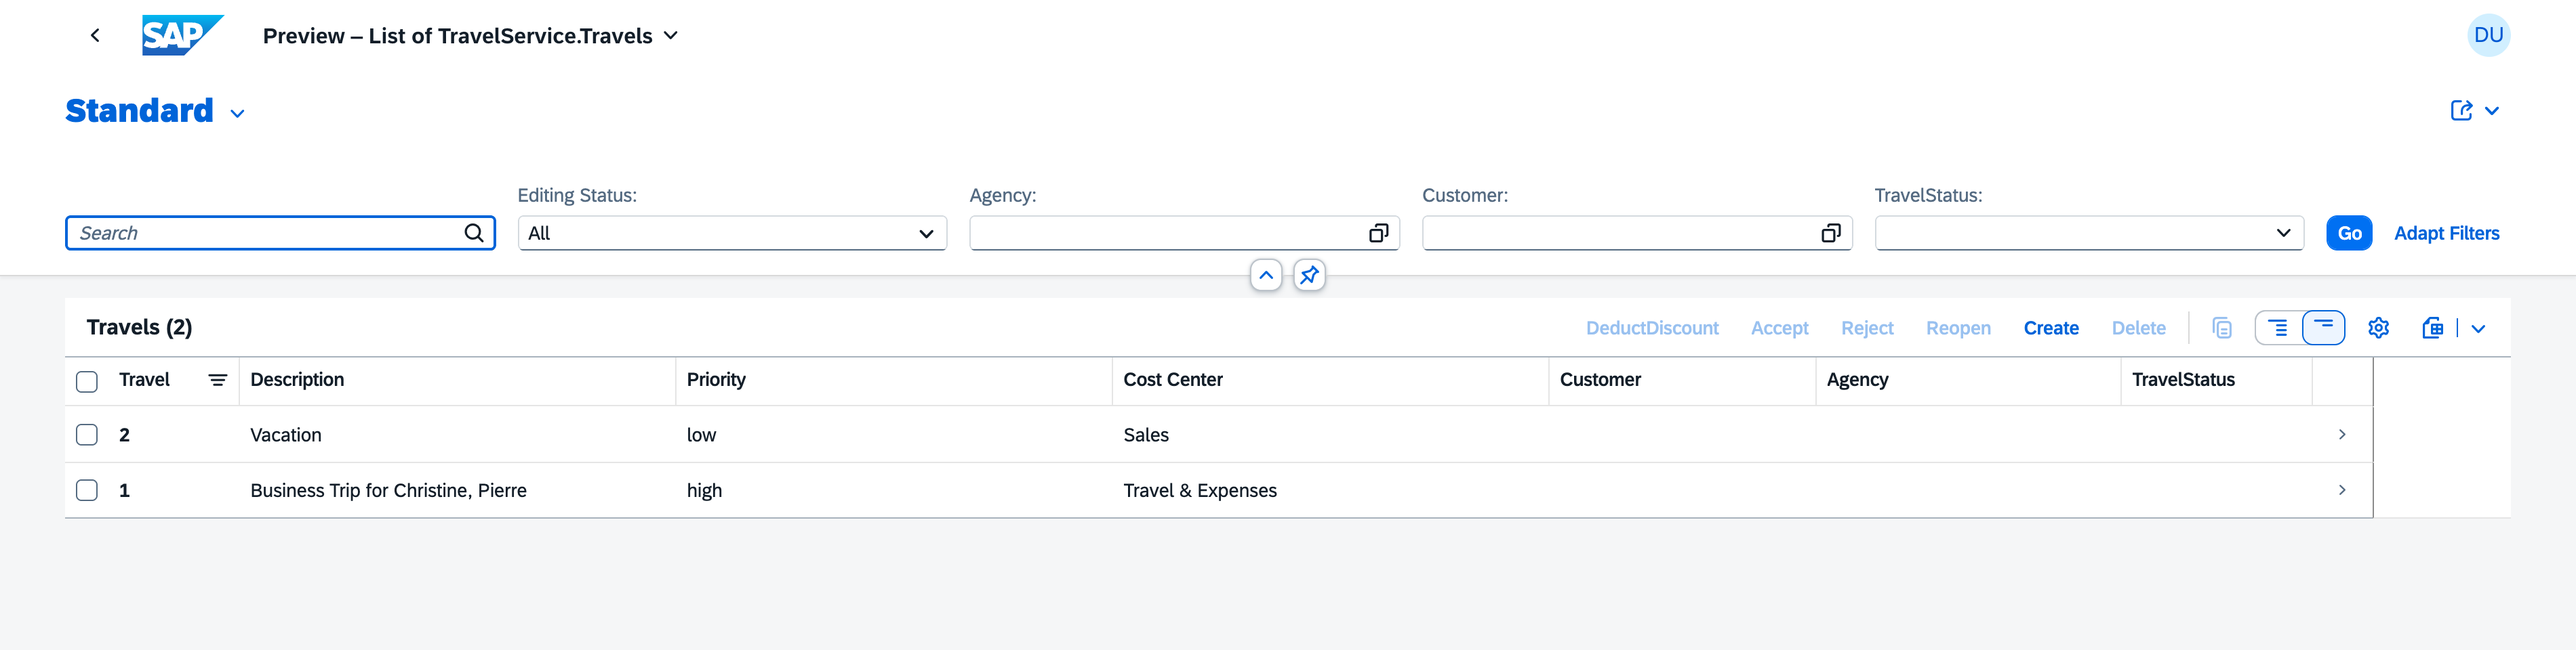
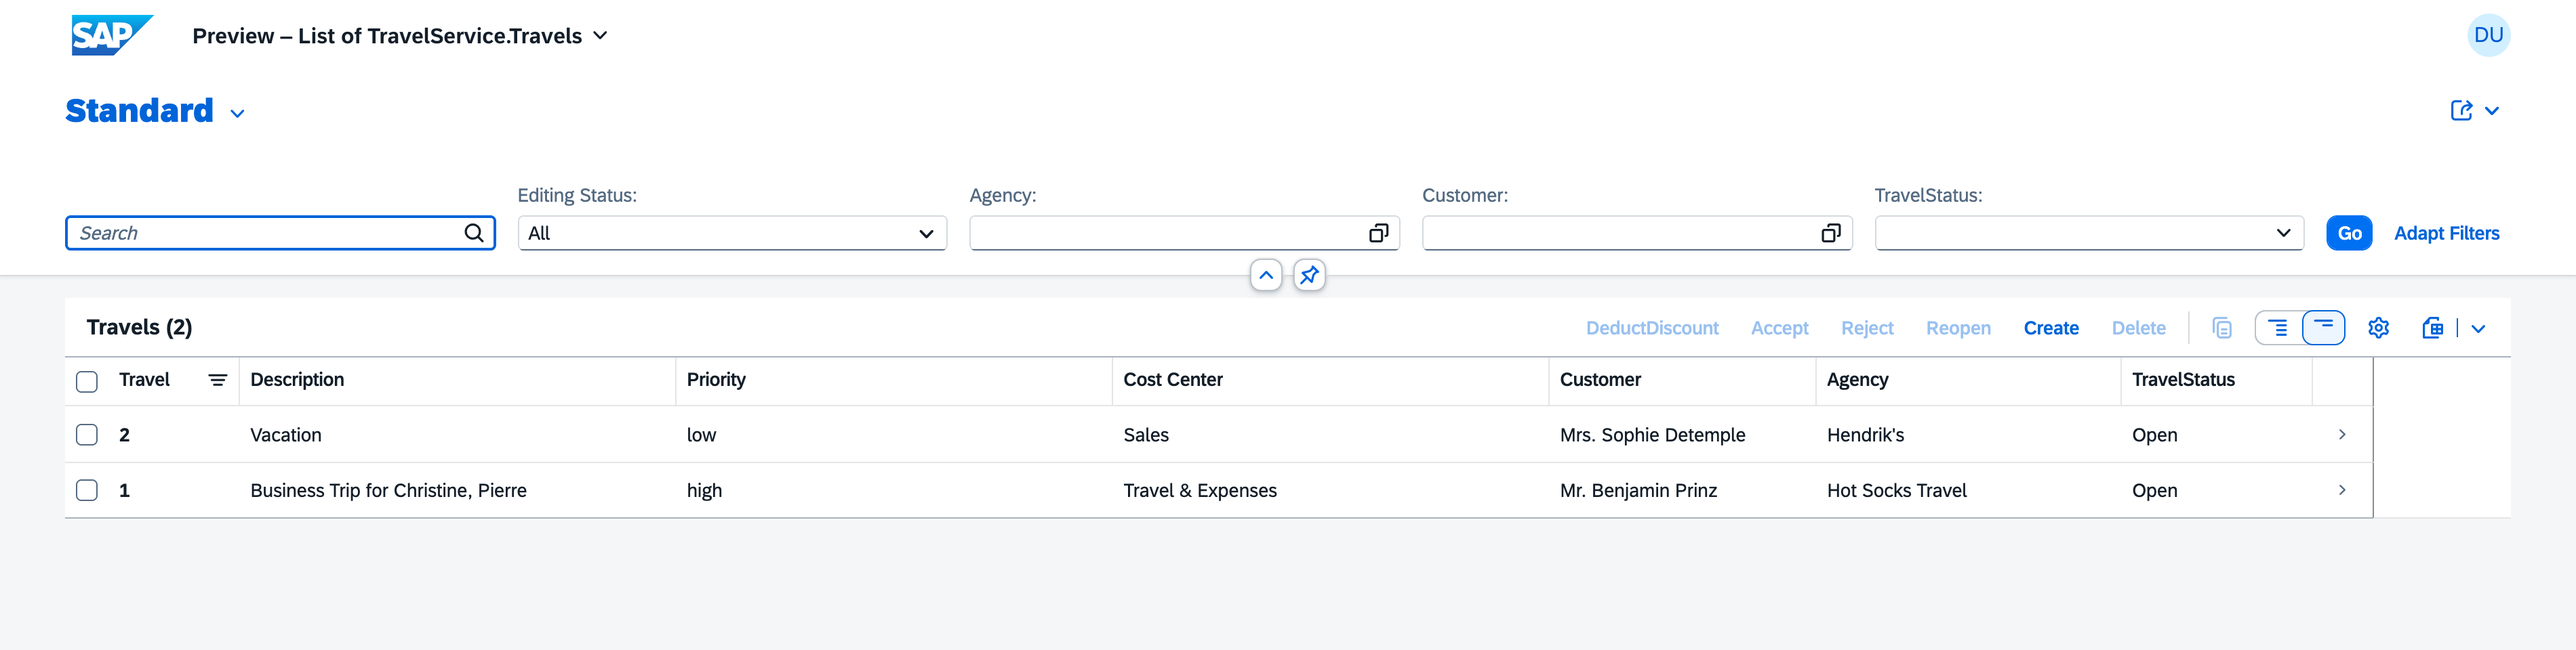
Fix XTravels extensibility walkthrough for CDS-DK 10.2

diff --git a/guides/extensibility/customization.md b/guides/extensibility/customization.md
@@ -214,14 +214,14 @@ Extension projects are standard CAP projects extending the SaaS application. Cre
    `cds add extension` scaffolds the extension project structure: it adds `extends` and `workspaces: [ ".base" ]` to your _package.json_ and prepares the `.base/` folder that will hold the pulled base model.
 
    ::: info `cds add extension` writes a bookshop placeholder
-   It also writes a small **bookshop** placeholder that you don't keep: it sets `extends` to `@capire/bookshop` and writes `.base/package.json` as `{ "name": "@capire/bookshop" }`. You don't hand-edit the latter: point `extends` at your app (next step), and later [when you run `cds pull`](#pull-base) it overwrites `.base/` with your real base model, so its name becomes `@capire/xtravels` on its own.
+   It sets `extends` in `xtravels-ext/package.json` to `@capire/bookshop` and writes `.base/package.json` as `{ "name": "@capire/bookshop" }`. Change `extends` in the extension project's root _package.json_ in the next step. Leave `.base/package.json` unchanged: [Pull the Base Model](#pull-base) replaces it with a package named `@capire/xtravels`.
    :::
 
-2. `cds add extension` sets `extends` to a placeholder, point it at your SaaS app and add the two focused settings below to your _package.json_:
+2. In `xtravels-ext/package.json`, change `extends` from `@capire/bookshop` to `@capire/xtravels`:
 
     ::: code-group
 
-    ```json{3,6,9} [package.json]
+    ```json{3} [xtravels-ext/package.json]
     {
       "name": "xtravels-ext",
       "extends": "@capire/xtravels",
@@ -237,11 +237,17 @@ Extension projects are standard CAP projects extending the SaaS application. Cre
 
     :::
 
-- `name` identifies the extension within a SaaS subscription; extension developers can choose the value freely.
+::: details Generated project settings
+
+`cds add extension` sets up `workspaces`, SQLite, and port `4006`. The example above shows the resulting settings. For a project created with an earlier toolkit, check that these settings match.
+
+- `name` identifies the extension within a SaaS subscription. Extension developers can choose the value freely.
 - `extends` is the name by which the extension model will refer to the base model. `cds add extension` writes a placeholder here, change it to your SaaS app (`@capire/xtravels`). It must be a valid npm package name as it will be used by `cds pull` as a package name for the base model. It doesn't have to be a unique name, nor does it have to exist in a package registry like npmjs, as it will only be used locally.
 - `workspaces` (added by `cds add extension`) is a list of folders including the one where the base model is stored. `cds pull` will keep this property in sync if needed.
-- `@cap-js/sqlite` provides the in-memory database for local `cds watch`. `cds add extension` scaffolds it under `devDependencies`, **move it to `optionalDependencies`** as shown above. It sits there **on purpose**: it's still installed by `npm install`, so local test-drives get a real database, but because it isn't a regular `dependency` or `devDependency`, `cds build` doesn't treat the project as a runnable app and therefore keeps your local `test/data` **out of the pushed extension** (see [Add Test Data](#add-test-data)). Leaving it as a `devDependency` would bundle that dev-only data into `cds push` and deploy it to the tenant.
-- `cds.server.port` fixes the local test-drive port to `4006`, so extension developers can just run `cds watch` without passing `--port`.
+- `@cap-js/sqlite` provides the in-memory database for local `cds watch`. `cds add extension` puts it in `optionalDependencies`, so `npm install` installs it while the extension build keeps local `test/data` out of the pushed archive (see [Add Test Data](#add-test-data)). If an older project lists it under `dependencies` or `devDependencies`, move it to `optionalDependencies`.
+- `cds.server.port` is set to `4006`, so you can run `cds watch` without passing `--port`.
+
+:::
 
 ::: details Uniqueness of base-model name…
 
@@ -251,41 +257,13 @@ You use the `extends` property as the name of the base model in your extension p
 
 #### Set Up the Extension Project Locally {#local-setup}
 
-The extension project can't compile yet: its `using … from '@capire/xtravels'` needs the actual base model behind it. You pull that model once from the running SaaS app. After it's pulled, the extension project runs **standalone**: you only return to the host and its MTX sidecar when you want to re-pull or push.
+Your extension needs the base model to resolve `using … from '@capire/xtravels'`. The steps below start the SaaS app and its sidecar, prepare the tenants, and then [pull the base model](#pull-base). After that, you can run the extension **standalone**. You only need the host and sidecar again to refresh the model or push an extension.
 
-So the local setup is up to three processes, in three terminals, started in this order.
-
-**1. Start the MTX sidecar first.** From the sidecar subfolder, with no flags:
-
-```sh
-cd mtx/sidecar
-cds watch
-```
-
-The sidecar serves the subscription, deployment, and extensibility endpoints on **:4005**. Leave it running.
-
-**2. Start the XTravels host.** In a second terminal, from the `xtravels/` root:
-
-```sh
-cds watch --with-mtx
-```
-
-The host serves the SaaS app on **:4114**. The sidecar must already be up, because subscribe, pull, and push are all handled by the sidecar on :4005, not by the host.
-
-##### Subscribe the Tenants {#prepare-an-extension-tenant}
-
-You work with two tenants: a **production tenant** `t1` (where end users such as `carol` work) and a dedicated **test tenant** `t1-ext`, where you validate an extension before activating it to production. In your local setup you simulate both subscriptions with the [mock user](../../node.js/authentication#mock-users) `yves`, against the sidecar:
-
-```sh
-cds subscribe t1 --to http://localhost:4005 -u yves:
-cds subscribe t1-ext --to http://localhost:4005 -u yves:
-```
-
-Then assign an **extension developer** for the test tenant. With mocked auth, simulate this by adding user `bob` as extension developer for `t1-ext` in the SaaS app's _package.json_:
+Before starting the servers, assign an **extension developer** for the test tenant. With mocked auth, add user `bob` for `t1-ext` in the SaaS app's `samples/xtravels/package.json`. The MTX sidecar reads mock users from this base app configuration, so this setting authorizes `bob` to pull and push against the sidecar:
 
 ::: code-group
 
-```json [package.json]
+```json [samples/xtravels/package.json]
 {
   "cds": {
     "requires": {
@@ -306,9 +284,40 @@ Then assign an **extension developer** for the test tenant. With mocked auth, si
 
 The `cds.ExtensionDeveloper` role is what authorizes `cds pull` and `cds push`. Learn more about it, and the other MTX roles, in [Technical Roles](../multitenancy/mtxs#roles).{.learn-more}
 
+Use three terminals for this setup: one for the sidecar, one for the host, and one for commands in the extension project.
+
+**1. Start the MTX sidecar.** In your first terminal, from `xtravels-ext`:
+
+```sh
+cd ../samples/xtravels/mtx/sidecar
+cds watch
+```
+
+The sidecar serves the subscription, deployment, and extensibility endpoints on **:4005**. Leave it running.
+
+**2. Start the XTravels host.** Open a second terminal in `xtravels-ext`:
+
+```sh
+cd ../samples/xtravels
+cds watch --with-mtx
+```
+
+The host serves the SaaS app on **:4114**. The sidecar must already be up, because subscribe, pull, and push are all handled by the sidecar on :4005, not by the host.
+
+**3. Prepare and run the extension.** Open a third terminal in `xtravels-ext`. Use it for the subscription, pull, and install commands below, and later for standalone `cds watch`.
+
+##### Subscribe the Tenants {#prepare-an-extension-tenant}
+
+You work with two tenants: a **production tenant** `t1` (where end users such as `carol` work) and a dedicated **test tenant** `t1-ext`, where you validate an extension before activating it to production. In your local setup you simulate both subscriptions with the [mock user](../../node.js/authentication#mock-users) `yves`, against the sidecar:
+
+```sh
+cds subscribe t1 --to http://localhost:4005 -u yves:
+cds subscribe t1-ext --to http://localhost:4005 -u yves:
+```
+
 ##### Pull the Base Model {#pull-base}
 
-With the sidecar running, pull the latest base model into the extension project as user `bob`:
+In your third terminal, from `xtravels-ext`, pull the latest base model as user `bob`:
 
 ```sh
 cds pull --from http://localhost:4005 -u bob: -s t1-ext
@@ -400,6 +409,8 @@ A bare `Travels` table isn't browsable on its own: its associations point at age
 You assemble this template from the base app and its reuse modules. They live in the `samples` workspace next to your extension project, so you can copy the files straight across. From the `xtravels-ext` folder:
 
 ```sh
+mkdir -p test/data
+
 # The app's own data: plain copy from the base app's db/data/
 cp ../samples/xtravels/db/data/sap.capire.travels-{Travels,Bookings,Bookings.Supplements,TravelAgencies,TravelStatus,TravelStatus.texts,TravelPurposes,PaymentMethods,BookingStatus,BookingStatus.texts}.csv test/data/
 
@@ -444,9 +455,9 @@ cp ../samples/xflights/apis/data-service/data/sap.capire.flights.FlightsService.
 
 **2. Match the columns to the pulled model.** The base model you pull is **minified** (`@cds.minify`), external and reuse entities keep only the elements and code lists the exposed services actually reference. Anything unused is stripped, so the pulled model can be markedly leaner than the packages the base app builds on. If a source CSV carries columns the minified model dropped, deployment fails with `table … has no column named …`; if it targets an entity that was dropped entirely, you get `no such table`.
 
-This matters here because XTravels builds on **`@capire/common`**, which _extends_ the stock `@sap/cds/common`: it adds `numcode`/`exponent`/`minor` to `Currencies`, a `Regions`/`Cities`/`Districts` hierarchy under `Countries`, and a whole `Languages` code list. None of that is reachable through XTravels' services, so minification drops it, the pulled model falls back to a plain `sap.common` shape. Two consequences for your test data:
+XTravels builds on **`@capire/common`**, which adds currency fields and further code lists to `@sap/cds/common`. The pulled model may omit those additions. Copy only the data you need, and match its columns to the pulled model:
 
-- **`Currencies`: trim the extra columns.** `@capire/common`'s `sap.common-Currencies.csv` ships `code;symbol;name;descr;numcode;minor;exponent`, but the pulled `sap.common.Currencies` keeps only `code`, `symbol`, `name`, `descr` (plus `minorUnit`). Drop the extra three:
+- **Create the currency test data separately.** The earlier copy command leaves out `sap.common-Currencies.csv` because the source file contains extra columns (`numcode`, `minor`, and `exponent`) that are absent from the pulled model. Create `test/data/sap.common-Currencies.csv` with these matching columns and values:
 
   ```csv [test/data/sap.common-Currencies.csv]
   code;symbol;name;descr
@@ -454,14 +465,14 @@ This matters here because XTravels builds on **`@capire/common`**, which _extend
   USD;$;US Dollar;United States Dollar
   ```
 
-- **`Languages` and `Regions`: don't copy them at all.** They aren't in the pulled model, so there's no table to load into; copying `sap.common-Languages.csv` would fail with `no such table`.
+- **Copy only the code lists you need.** The commands above include the code lists needed for this walkthrough. For other data, first check that its target entity is present in the pulled model.
 
-The companion `sap.common-Currencies_texts`, `sap.common-Countries`, and `sap.common-Countries_texts` CSVs already match the pulled model, copy them as-is.
+The earlier commands already copy `sap.common-Currencies_texts`, `sap.common-Countries`, and `sap.common-Countries_texts` unchanged.
 
 ::: tip Find the target quickly
 This lookup uses the pulled base model, so run [`cds pull`](#pull-base) first (or ship a pre-filled [`.base/`](#template-base)) if you haven't yet: that's what creates `.base/index.csn`. `cds pull` only writes the `.base/` folder and a few `package.json` entries; it never touches your `app/`, `test/data/`, or `db/data/`, so it won't overwrite the template you've built so far.
 
-Not sure what an entity projects on, which columns survived minification, or whether an entity survived at all? Open the pulled `.base/index.csn` and look it up: its `projection`/`query` shows the source it reads from, and its `elements` are exactly the columns your CSV may contain. If the definition isn't there, minification dropped it and there's nothing to load.
+Open the pulled `.base/index.csn` to check an entity. Its `projection` or `query` shows the source it reads from. Check its `elements` and any aspects listed in `includes` for the fields your CSV may contain. If the definition is absent, there is no entity to load data into.
 :::
 
 #### Ship a Pre-Filled Base Model {#template-base}
@@ -478,7 +489,14 @@ If you don't ship `.base/`, that's fine, developers just run [`cds pull`](#pull-
 
 #### Make It Browsable {#template-ui}
 
-For model-only extensions, the [generic Fiori preview](#test-locally) is enough to see your new fields. If you want extension developers to work against the **real** application UI locally, copy the base app's Fiori Elements shell (`app/travels/webapp/`) into the template. `cds watch` then serves it at `http://localhost:4006/travels/webapp/index.html`. The UI annotations themselves already travel with the base model, so only the HTML/JS shell needs to be copied.
+For model-only extensions, the [generic Fiori preview](#test-locally) is enough to check your new fields. To use the application's own UI locally, copy its Fiori Elements shell from the `xtravels-ext` folder:
+
+```sh
+mkdir -p app/travels
+cp -R ../samples/xtravels/app/travels/webapp app/travels/
+```
+
+`cds watch` serves it at `http://localhost:4006/travels/webapp/index.html`. The UI annotations are already included in the base model.
 
 #### Add a Readme
 
@@ -539,7 +557,7 @@ When you run the extension standalone with `cds watch`, the app boots against th
 On a real tenant your extension runs _inside_ the deployed SaaS app, so all of this wiring is already there. You only need it to make **standalone `cds watch`** behave like the deployed app.
 :::
 
-Bridge the gap with a read-only `srv/server.js` that reproduces just enough of the base app's behavior. Place it **directly** under `srv/`, where it runs as a regular Node.js bootstrap module during `cds watch`. A model-only extension carries no code, so even though `cds push` packages this file into the extension archive, the tenant activates only the model, the file is never executed there. Mark it clearly as reference code:
+Bridge the gap with a read-only `srv/server.js` that reproduces just enough of the base app's behavior. Place it **directly** under `srv/`, where it runs as a regular Node.js bootstrap module during `cds watch`. A model-only extension carries no code, so even though `cds push` packages this file into the extension archive, the tenant activates only the model, the file is never executed there. The generated project uses ES modules. Mark this file clearly as reference code:
 
 ::: code-group
 
@@ -551,7 +569,7 @@ Bridge the gap with a read-only `srv/server.js` that reproduces just enough of t
 // behaves like the deployed app. On a model-only tenant this file is
 // packaged but never executed, only the model is activated.
 // ────────────────────────────────────────────────────────────────
-const cds = require('@sap/cds')
+import cds from '@sap/cds'
 
 cds.once('served', () => {
   const { TravelService } = cds.services
@@ -576,7 +594,7 @@ cds.once('served', () => {
     TravelService.on(action, Travels, req => req.data ?? {})
 })
 
-module.exports = cds.server
+export default cds.server
 ```
 
 :::
@@ -631,7 +649,7 @@ code ../../xtravels-ext
 
 Your extension references the base model through `using … from '@capire/xtravels'`, so the model has to be present before the project compiles. There are three cases:
 
-- **The template ships a pre-filled `.base/`** (recommended): nothing to do, the model is already there. Just run `npm install`.
+- **The template ships a pre-filled `.base/`** (recommended): check for `.base/index.csn` containing the base model and `.base/package.json` with `"name": "@capire/xtravels"`. A folder containing only the scaffolded bookshop placeholder is not a pre-filled model. With both files in place, run `npm install`.
 - **Extending a deployed SaaS app on BTP**: pull the base model from the subscribed app, giving its App Router URL and your tenant subdomain. You'll be prompted for a passcode:
 
   ```sh
@@ -743,9 +761,9 @@ The `x_CostCenters` code list is your extension's own [_(real) initial data_](..
 
 #### Verify the Extension
 
-Verify your extensions are applied correctly by opening the [Travels Fiori Preview](http://localhost:4006/$fiori-preview/TravelService/Travels#preview-app) in a **new private browser window**, log in as `bob`, and confirm that the _Priority_ and _Cost Center_ columns contain values, as in the following screenshot:
+Open the [Travels Fiori Preview](http://localhost:4006/$fiori-preview/TravelService/Travels#preview-app) in a **new private browser window** and log in as `bob`. Confirm that _Priority_ and _Cost Center_ contain values. The template's test data also fills _Customer_, _Agency_, and _TravelStatus_, as shown below:
 
-![Generic Fiori preview for TravelService.Travels with extension columns Priority, containing high and low, and Cost Center, containing Travel & Expenses and Sales.](assets/xtravels-fiori-preview-ext.png){.mute-dark}
+![Travels Fiori preview with high and low Priority, Cost Centers Travel & Expenses and Sales, customer and agency names, and Open travel status.](assets/xtravels-fiori-preview-ext.png){.mute-dark}
 
 > Note: the two rows shown come from your local `test/data/Travels`, and their _Cost Center_ labels resolve against the `x_CostCenters` code list.
 
